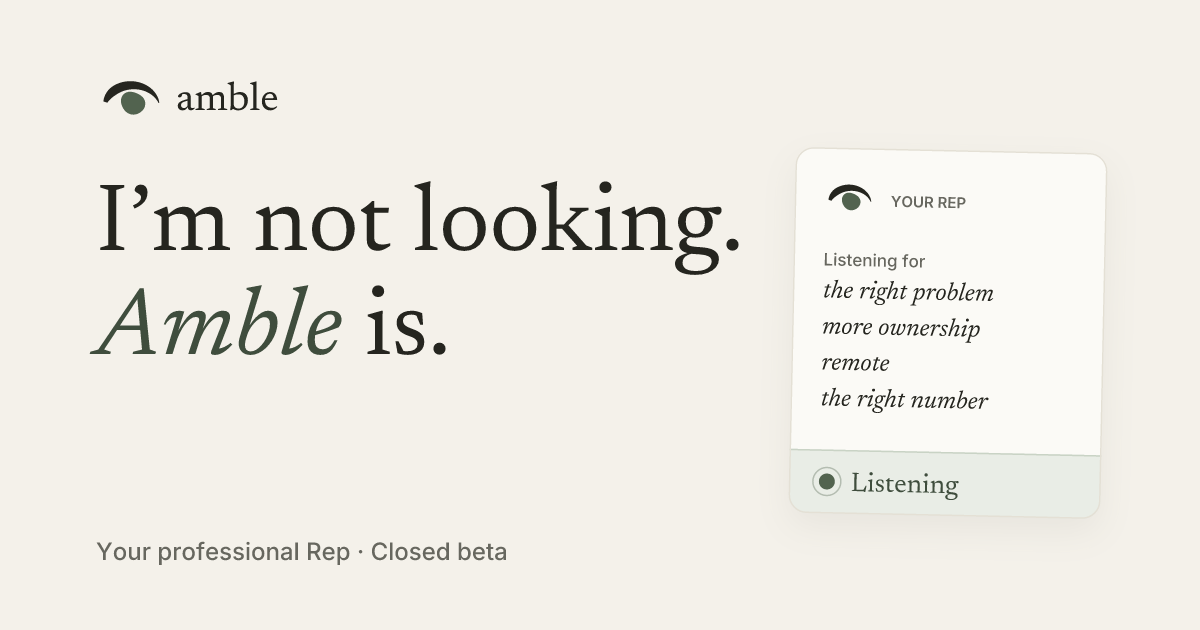
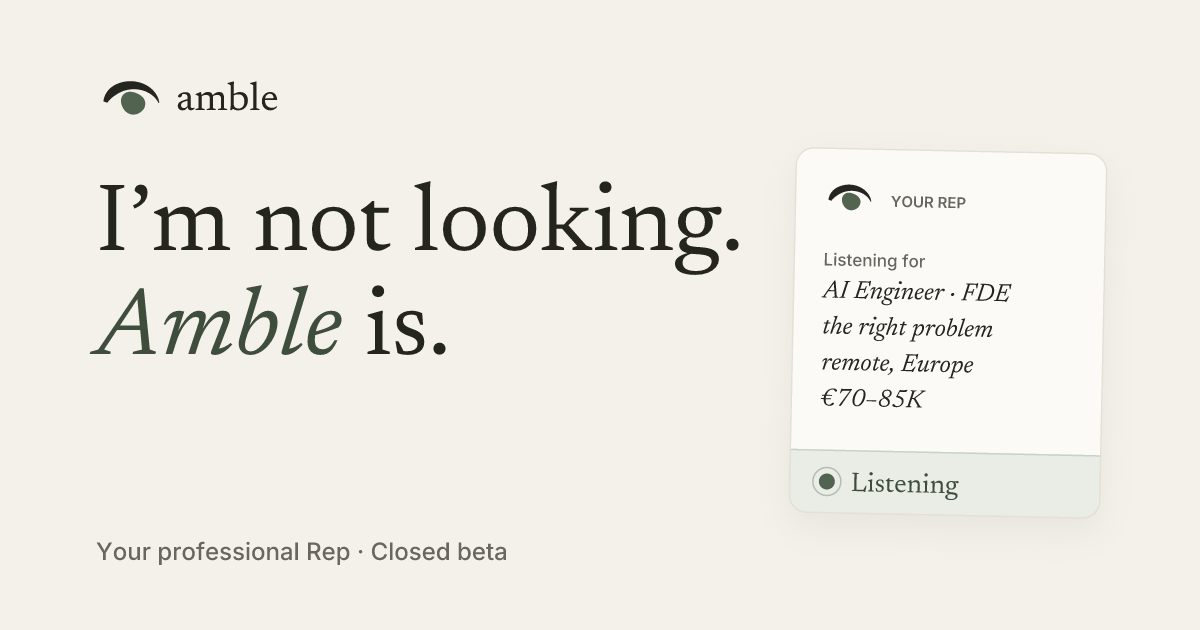
Stepped scenes keep a gesture made mid-step and play it when the step is done; shorter glide and holds. Home cards: a role (AI Engineer · FDE) and a real range (€70–85K)

Changed region(s): [[0.6783, 0.573, 0.8325, 0.6635], [0.6783, 0.4524, 0.8633, 0.4825], [0.6783, 0.5127, 0.8325, 0.5429]]

diff --git a/src/scripts/motion.ts b/src/scripts/motion.ts
@@ -43,10 +43,12 @@ export function startSmoothScroll() {
 type Stepped = { st: ScrollTrigger; steps: number; hold: (step: number) => number };
 const scenes: Stepped[] = [];
 
-const STEP_DURATION = 1.1; // seconds to glide from one step to the next
+const STEP_DURATION = 0.9; // seconds to glide from one step to the next
 const QUIET_MS = 200; // a gap this long between events ends a gesture
 
-let busy = false; // gliding to a step
+let busy = false; // gliding to a step, or letting its animations finish
+let queued = 0; // a fresh gesture made while busy: played as soon as the step is done
+let queuedScene: Stepped | null = null;
 let swallowing = false; // the gesture that moved a step (or was stopped) isn't over yet
 let lastEvent = 0; // last swallowed event, to tell one gesture from the next
 let lastAbs = 0; // last swallowed delta, to spot a fresh gesture under inertia
@@ -81,15 +83,37 @@ function go(s: Stepped, y: number, dir: number) {
   busy = true;
   swallowing = true;
   lastEvent = performance.now();
-  lastAbs = Infinity; // only a pause starts the next gesture
+  lastAbs = Math.max(lastAbs, 60); // inertia decays; a new flick is a spike above it
   lenis?.scrollTo(posOf(s, next), {
     duration: STEP_DURATION,
     easing: (t) => 1 - Math.pow(1 - t, 3),
     force: true,
     onComplete: () => {
-      setTimeout(() => (busy = false), s.hold(next));
+      setTimeout(release, s.hold(next));
     },
   });
+}
+
+// The step is done. A gesture made meanwhile isn't lost: it plays now.
+function release() {
+  busy = false;
+  const dir = queued;
+  const s = queuedScene;
+  queued = 0;
+  queuedScene = null;
+  if (!dir || !s || !lenis) return;
+  const y = lenis.scroll;
+  if (sceneFor(y, dir) === s) return go(s, y, dir);
+  // At the scene's edge the kept gesture leaves it, gently.
+  lenis.scrollTo(y + dir * window.innerHeight * 0.6, { duration: 0.9, force: true });
+}
+function queue(dir: number) {
+  if (!lenis) return;
+  const y = lenis.scroll;
+  const s = scenes.find((sc) => y >= sc.st.start - 2 && y <= sc.st.end + 2);
+  if (!s) return;
+  queued = dir;
+  queuedScene = s;
 }
 
 // Every wheel and touch event passes here before Lenis moves the page.
@@ -101,6 +125,16 @@ function gate({ deltaY, event }: { deltaX: number; deltaY: number; event: WheelE
     touchTravel = 0;
     touchFired = false;
     return true;
+  }
+  if (event.type === 'touchmove' && busy) {
+    // A new swipe while a step is playing: remember it.
+    touchTravel += deltaY;
+    if (!touchFired && Math.abs(touchTravel) > 36) {
+      touchFired = true;
+      queue(Math.sign(touchTravel));
+    }
+    if (event.cancelable) event.preventDefault();
+    return false;
   }
   if (event.type === 'touchend') return true;
   const dir = Math.sign(deltaY);
@@ -117,6 +151,8 @@ function gate({ deltaY, event }: { deltaX: number; deltaY: number; event: WheelE
   if (swallowing && !isTouch) {
     const fresh = now - lastEvent > QUIET_MS || (abs > lastAbs * 2.5 && abs > 12);
     if (!fresh || busy) {
+      // A new gesture while a step plays is kept for when it's done.
+      if (fresh && busy) queue(dir);
       lastEvent = now;
       lastAbs = abs;
       if (event.cancelable) event.preventDefault();
@@ -184,10 +220,10 @@ export function steppedScene(opts: {
   pin: HTMLElement;
   steps: number;
   onStep: (step: number) => void;
-  // ms each step's animations keep running once it's reached (default 1200)
+  // ms each step's animations keep running once it's reached (default 500)
   hold?: number | ((step: number) => number);
 }) {
-  const { trigger, pin, steps, onStep, hold = 1200 } = opts;
+  const { trigger, pin, steps, onStep, hold = 500 } = opts;
   const st = ScrollTrigger.create({
     trigger,
     pin,
